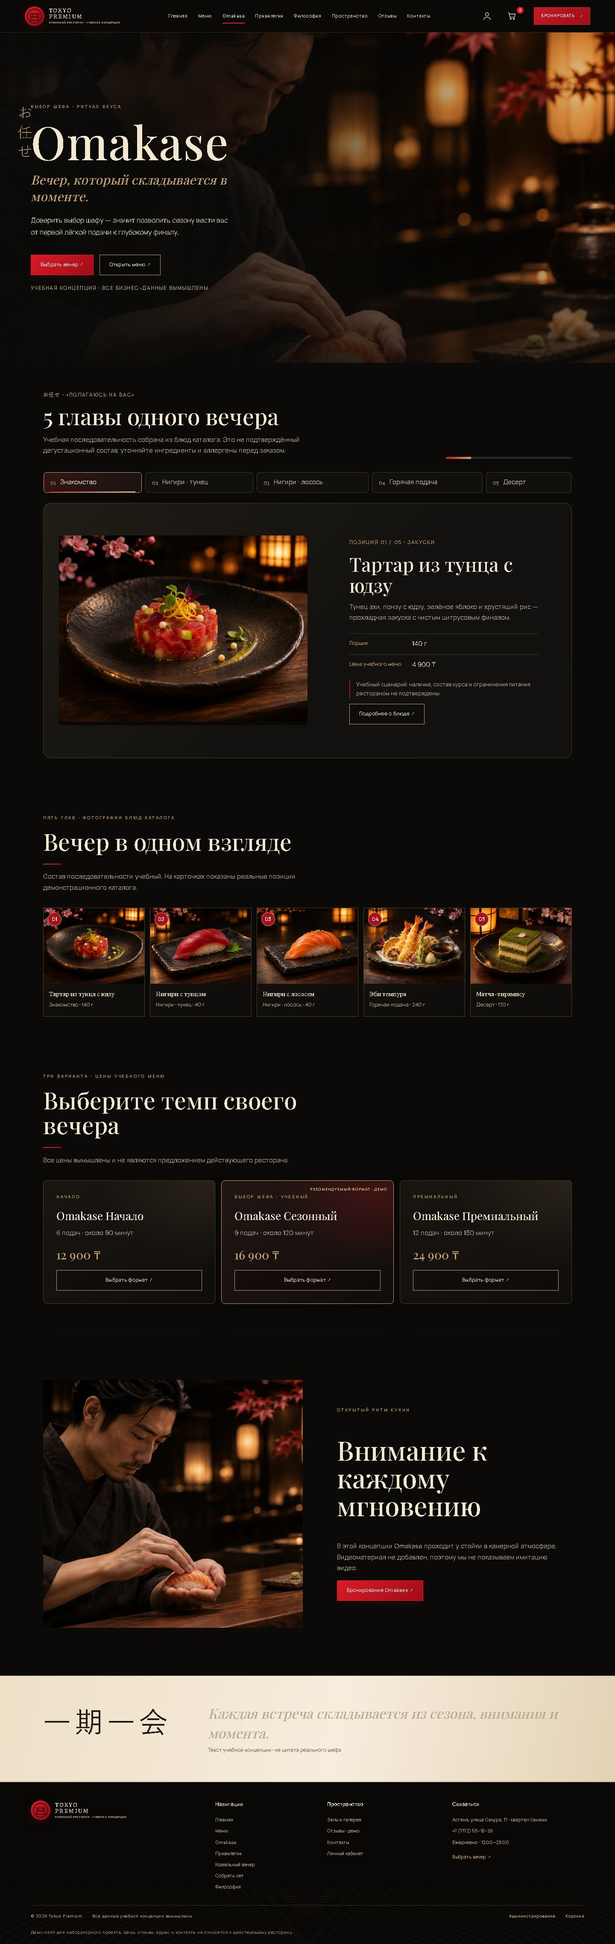
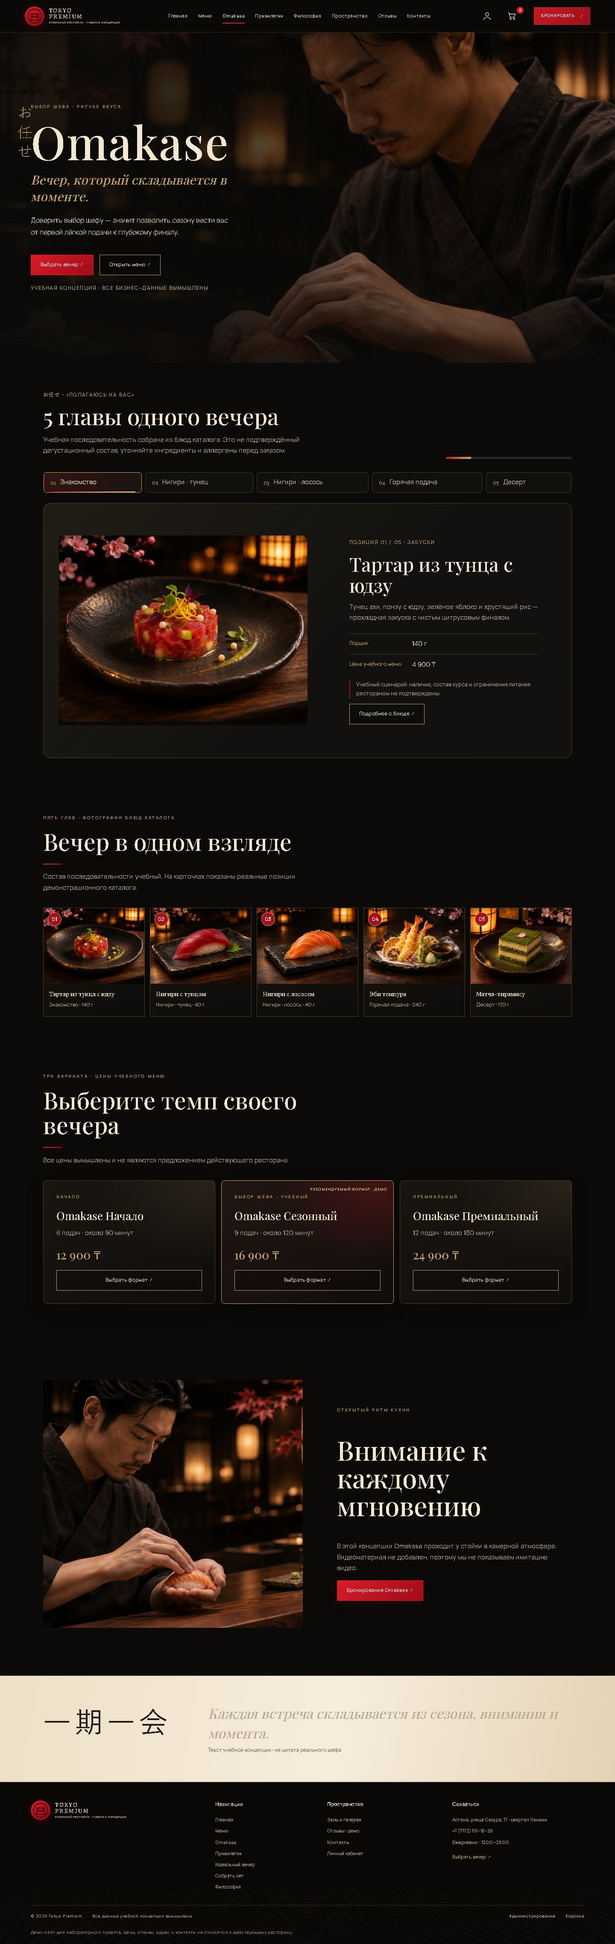
align-omakase-hero-composition

Changed region(s): [[0.3438, 0.0, 1.0, 0.1873]]

diff --git a/docs/omakase.html b/docs/omakase.html
@@ -1,5 +1,5 @@
 <!doctype html><html lang="ru"><head><meta charset="utf-8"><meta name="viewport" content="width=device-width, initial-scale=1"><meta name="description" content="Дегустационный вечер Omakase в учебной концепции Tokyo Premium."><meta name="theme-color" content="#0b0a09"><meta property="og:title" content="Omakase — Tokyo Premium"><meta property="og:description" content="Дегустационный вечер Omakase в учебной концепции Tokyo Premium."><meta property="og:type" content="website"><meta property="og:image" content="assets/generated/home-hero-salmon-nigiri-v3.webp"><meta name="twitter:card" content="summary_large_image"><title>Omakase — Tokyo Premium</title><link rel="preconnect" href="https://fonts.googleapis.com"><link rel="preconnect" href="https://fonts.gstatic.com" crossorigin><link href="https://fonts.googleapis.com/css2?family=DM+Sans:wght@400;500;600&family=Manrope:wght@400;500;600;700&family=Playfair+Display:wght@400;500;600&display=swap" rel="stylesheet"><link rel="stylesheet" href="luxury.css"><link rel="stylesheet" href="editorial.css"><link rel="stylesheet" href="premium.css"><link rel="stylesheet" href="tokyo20.css"><link rel="stylesheet" href="experience-ui.css"></head><body><header class="site-header"><a class="wordmark" href="index.html" aria-label="Tokyo Premium — главная"><span class="brand-emblem" aria-hidden="true"><svg viewBox="0 0 48 48" fill="none"><circle cx="24" cy="24" r="21"/><path d="M10 17h28M13 17v19m22-19v19M10 36h28M18 17v7m12-7v7M15 26h18"/></svg></span><span class="brand-type">TOKYO <i>PREMIUM</i><small>ЯПОНСКИЙ РЕСТОРАН · УЧЕБНАЯ КОНЦЕПЦИЯ</small></span></a><nav class="main-nav" id="site-navigation" aria-label="Основная навигация" aria-hidden="true" inert><a class="" href="index.html">Главная</a><a class="" href="menu.html">Меню</a><a class="active" href="omakase.html">Omakase</a><a class="" href="offers.html">Привилегии</a><a href="about.html">Философия</a><a class="" href="gallery.html">Пространство</a><a href="reviews.html">Отзывы</a><a class="" href="contacts.html">Контакты</a><div class="mobile-nav-utilities" aria-label="Быстрые действия"><a href="booking.html">Бронирование <span aria-hidden="true">↗</span></a><a href="offers.html">Привилегии и акции <span aria-hidden="true">↗</span></a><a href="perfect-evening.html">Идеальный вечер <span aria-hidden="true">↗</span></a><a href="set-builder.html">Собрать сет <span aria-hidden="true">↗</span></a><a href="cart.html">Корзина <span class="mobile-cart-count" aria-hidden="true">0</span></a><a href="account.html">Личный кабинет</a></div></nav><div class="header-actions"><a class="header-icon" href="account.html" aria-label="Личный кабинет"><svg viewBox="0 0 24 24" aria-hidden="true"><circle cx="12" cy="8" r="4"/><path d="M4 21c.7-4 3.3-6 8-6s7.3 2 8 6"/></svg></a><a class="header-icon header-cart-link" href="cart.html" aria-label="Корзина"><svg viewBox="0 0 24 24" aria-hidden="true"><path d="M3 4h2l2.5 11h10.8l2-8H6"/><circle cx="9" cy="19" r="1.5"/><circle cx="17" cy="19" r="1.5"/></svg><span class="header-cart-count" aria-hidden="true">0</span></a></div><a class="header-cta" href="booking.html">Бронировать <span aria-hidden="true">↗</span></a><button class="mobile-menu" type="button" aria-controls="site-navigation" aria-label="Открыть меню" aria-expanded="false">Меню</button></header><main class="editorial-page">
-<section class="editorial-hero"><img class="editorial-hero-photo" src="assets/generated/chef-at-counter.webp" srcset="" sizes="100vw" width="1800" height="1100" fetchpriority="high" alt="Шеф готовит дегустационное меню"><div class="editorial-hero-shade"></div><div class="editorial-kanji" lang="ja">お任せ</div><div class="editorial-hero-copy"><div class="kicker">ВЫБОР ШЕФА · РИТУАЛ ВКУСА</div><h1>Omakase</h1><p class="editorial-sub">Вечер, который складывается в моменте.</p><p>Доверить выбор шефу — значит позволить сезону вести вас от первой лёгкой подачи к глубокому финалу.</p><div class="button-row"><a class="button" href="booking.html">Выбрать вечер ↗</a><a class="button secondary" href="menu.html">Открыть меню ↗</a></div><span class="school-note">Учебная концепция · все бизнес-данные вымышлены</span></div></section>
+<section class="editorial-hero omakase-hero"><img class="editorial-hero-photo" src="assets/generated/chef-at-counter.webp" srcset="" sizes="100vw" width="1800" height="1100" fetchpriority="high" alt="Шеф готовит дегустационное меню"><div class="editorial-hero-shade"></div><div class="editorial-kanji" lang="ja">お任せ</div><div class="editorial-hero-copy"><div class="kicker">ВЫБОР ШЕФА · РИТУАЛ ВКУСА</div><h1>Omakase</h1><p class="editorial-sub">Вечер, который складывается в моменте.</p><p>Доверить выбор шефу — значит позволить сезону вести вас от первой лёгкой подачи к глубокому финалу.</p><div class="button-row"><a class="button" href="booking.html">Выбрать вечер ↗</a><a class="button secondary" href="menu.html">Открыть меню ↗</a></div><span class="school-note">Учебная концепция · все бизнес-данные вымышлены</span></div></section>
 <section class="section tp20-omakase-experience" data-tp-omakase aria-label="Интерактивная история Omakase"><div class="tp20-course-heading"><div><div class="kicker">お任せ · «полагаюсь на вас»</div><h2>5 главы одного вечера</h2><p>Учебная последовательность собрана из блюд каталога. Это не подтверждённый дегустационный состав; уточняйте ингредиенты и аллергены перед заказом.</p></div><div class="tp20-course-progress" data-tp-omakase-progress aria-label="Прогресс знакомства с меню"><span></span></div></div><div class="tp20-course-tabs" role="tablist" aria-label="Позиции учебной последовательности"><button type="button" id="tp-omakase-tab-1" data-tp-course data-step="1" aria-controls="tp-omakase-panel-1" aria-selected="true"><span>01</span>Знакомство</button><button type="button" id="tp-omakase-tab-2" data-tp-course data-step="2" aria-controls="tp-omakase-panel-2" aria-selected="false"><span>02</span>Нигири · тунец</button><button type="button" id="tp-omakase-tab-3" data-tp-course data-step="3" aria-controls="tp-omakase-panel-3" aria-selected="false"><span>03</span>Нигири · лосось</button><button type="button" id="tp-omakase-tab-4" data-tp-course data-step="4" aria-controls="tp-omakase-panel-4" aria-selected="false"><span>04</span>Горячая подача</button><button type="button" id="tp-omakase-tab-5" data-tp-course data-step="5" aria-controls="tp-omakase-panel-5" aria-selected="false"><span>05</span>Десерт</button></div><div class="tp20-course-panels"><article class="tp20-course-panel" id="tp-omakase-panel-1" data-tp-course-panel data-step="1" ><div class="tp20-course-photo"><img src="assets/food/12-tuna-tartare-yuzu.webp" srcset="" alt="Тартар из тунца с юдзу — демонстрационная фотография блюда" loading="eager" decoding="async"></div><div class="tp20-course-story"><span class="kicker">ПОЗИЦИЯ 01 / 05 · Закуски</span><h3>Тартар из тунца с юдзу</h3><p>Тунец ахи, понзу с юдзу, зелёное яблоко и хрустящий рис — прохладная закуска с чистым цитрусовым финалом.</p><dl><div><dt>Порция</dt><dd>140 г</dd></div><div><dt>Цена учебного меню</dt><dd>4 900 ₸</dd></div></dl><p class="tp20-course-note">Учебный сценарий: наличие, состав курса и ограничения питания рестораном не подтверждены.</p><a class="button secondary" href="dish-12.html">Подробнее о блюде ↗</a></div></article><article class="tp20-course-panel" id="tp-omakase-panel-2" data-tp-course-panel data-step="2" hidden><div class="tp20-course-photo"><img src="assets/food/06-nigiri-tuna.webp" srcset="" alt="Нигири с тунцом — демонстрационная фотография блюда" loading="lazy" decoding="async"></div><div class="tp20-course-story"><span class="kicker">ПОЗИЦИЯ 02 / 05 · Суши и сашими</span><h3>Нигири с тунцом</h3><p>Нигири с тунцом.</p><dl><div><dt>Порция</dt><dd>40 г</dd></div><div><dt>Цена учебного меню</dt><dd>1 500 ₸</dd></div></dl><p class="tp20-course-note">Учебный сценарий: наличие, состав курса и ограничения питания рестораном не подтверждены.</p><a class="button secondary" href="dish-6.html">Подробнее о блюде ↗</a></div></article><article class="tp20-course-panel" id="tp-omakase-panel-3" data-tp-course-panel data-step="3" hidden><div class="tp20-course-photo"><img src="assets/food/03-nigiri-salmon.webp" srcset="" alt="Нигири с лососем — демонстрационная фотография блюда" loading="lazy" decoding="async"></div><div class="tp20-course-story"><span class="kicker">ПОЗИЦИЯ 03 / 05 · Суши и сашими</span><h3>Нигири с лососем</h3><p>Классические нигири с лососем.</p><dl><div><dt>Порция</dt><dd>40 г</dd></div><div><dt>Цена учебного меню</dt><dd>1 200 ₸</dd></div></dl><p class="tp20-course-note">Учебный сценарий: наличие, состав курса и ограничения питания рестораном не подтверждены.</p><a class="button secondary" href="dish-3.html">Подробнее о блюде ↗</a></div></article><article class="tp20-course-panel" id="tp-omakase-panel-4" data-tp-course-panel data-step="4" hidden><div class="tp20-course-photo"><img src="assets/food/15-ebi-tempura.webp" srcset="" alt="Эби темпура — демонстрационная фотография блюда" loading="lazy" decoding="async"></div><div class="tp20-course-story"><span class="kicker">ПОЗИЦИЯ 04 / 05 · Горячее</span><h3>Эби темпура</h3><p>Тигровые креветки в лёгком тесте, сезонные овощи и тэнцую с дайконом.</p><dl><div><dt>Порция</dt><dd>240 г</dd></div><div><dt>Цена учебного меню</dt><dd>5 600 ₸</dd></div></dl><p class="tp20-course-note">Учебный сценарий: наличие, состав курса и ограничения питания рестораном не подтверждены.</p><a class="button secondary" href="dish-15.html">Подробнее о блюде ↗</a></div></article><article class="tp20-course-panel" id="tp-omakase-panel-5" data-tp-course-panel data-step="5" hidden><div class="tp20-course-photo"><img src="assets/food/19-matcha-tiramisu.webp" srcset="" alt="Матча-тирамису — демонстрационная фотография блюда" loading="lazy" decoding="async"></div><div class="tp20-course-story"><span class="kicker">ПОЗИЦИЯ 05 / 05 · Десерты</span><h3>Матча-тирамису</h3><p>Крем маскарпоне, савоярди с ходзича и пудра из церемониальной матчи.</p><dl><div><dt>Порция</dt><dd>170 г</dd></div><div><dt>Цена учебного меню</dt><dd>3 600 ₸</dd></div></dl><p class="tp20-course-note">Учебный сценарий: наличие, состав курса и ограничения питания рестораном не подтверждены.</p><a class="button secondary" href="dish-19.html">Подробнее о блюде ↗</a></div></article></div></section>
 <section class="section dark omakase-course-overview" aria-labelledby="omakase-course-overview-title"><div class="editorial-heading"><div class="kicker">Пять глав · фотографии блюд каталога</div><h2 id="omakase-course-overview-title">Вечер в одном взгляде</h2><p>Состав последовательности учебный. На карточках показаны реальные позиции демонстрационного каталога.</p></div><div class="omakase-course-grid"><article class="omakase-course-card"><div class="omakase-course-photo"><img src="assets/food/12-tuna-tartare-yuzu.webp" srcset="" alt="Тартар из тунца с юдзу из учебного каталога" loading="lazy" decoding="async"><span>01</span></div><div><h3>Тартар из тунца с юдзу</h3><p>Знакомство · 140 г</p></div></article><article class="omakase-course-card"><div class="omakase-course-photo"><img src="assets/food/06-nigiri-tuna.webp" srcset="" alt="Нигири с тунцом из учебного каталога" loading="lazy" decoding="async"><span>02</span></div><div><h3>Нигири с тунцом</h3><p>Нигири · тунец · 40 г</p></div></article><article class="omakase-course-card"><div class="omakase-course-photo"><img src="assets/food/03-nigiri-salmon.webp" srcset="" alt="Нигири с лососем из учебного каталога" loading="lazy" decoding="async"><span>03</span></div><div><h3>Нигири с лососем</h3><p>Нигири · лосось · 40 г</p></div></article><article class="omakase-course-card"><div class="omakase-course-photo"><img src="assets/food/15-ebi-tempura.webp" srcset="" alt="Эби темпура из учебного каталога" loading="lazy" decoding="async"><span>04</span></div><div><h3>Эби темпура</h3><p>Горячая подача · 240 г</p></div></article><article class="omakase-course-card"><div class="omakase-course-photo"><img src="assets/food/19-matcha-tiramisu.webp" srcset="" alt="Матча-тирамису из учебного каталога" loading="lazy" decoding="async"><span>05</span></div><div><h3>Матча-тирамису</h3><p>Десерт · 170 г</p></div></article></div></section>
 <section class="section dark"><div class="editorial-heading"><div class="kicker">Три варианта · цены учебного меню</div><h2>Выберите темп своего вечера</h2><p>Все цены вымышлены и не являются предложением действующего ресторана.</p></div><div class="experience-tiers"><article class="tier-card"><span class="kicker">Начало</span><h3>Omakase Начало</h3><p>6 подач · около 90 минут</p><strong>12 900 ₸</strong><a class="button secondary" data-tp-omakase-select data-format="Начало" href="booking.html?format=%D0%9D%D0%B0%D1%87%D0%B0%D0%BB%D0%BE">Выбрать формат ↗</a></article><article class="tier-card tier-card-featured"><span class="kicker">ВЫБОР ШЕФА · УЧЕБНЫЙ</span><h3>Omakase Сезонный</h3><p>9 подач · около 120 минут</p><strong>16 900 ₸</strong><a class="button secondary" data-tp-omakase-select data-format="Сезонный" href="booking.html?format=%D0%A1%D0%B5%D0%B7%D0%BE%D0%BD%D0%BD%D1%8B%D0%B9">Выбрать формат ↗</a></article><article class="tier-card"><span class="kicker">Премиальный</span><h3>Omakase Премиальный</h3><p>12 подач · около 150 минут</p><strong>24 900 ₸</strong><a class="button secondary" data-tp-omakase-select data-format="Премиальный" href="booking.html?format=%D0%9F%D1%80%D0%B5%D0%BC%D0%B8%D0%B0%D0%BB%D1%8C%D0%BD%D1%8B%D0%B9">Выбрать формат ↗</a></article></div></section>

diff --git a/docs/luxury-refinements.css b/docs/luxury-refinements.css
@@ -144,3 +144,6 @@
 @media(max-width:640px){.omakase-course-grid{grid-template-columns:repeat(2,minmax(0,1fr));gap:9px}.omakase-course-card>div:last-child{padding:11px}.omakase-course-card h3{font-size:.86rem}.omakase-course-card p{font-size:.71rem}.omakase-quote{grid-template-columns:1fr;gap:8px;padding-inline:22px}.omakase-quote>span{font-size:2.1rem}.omakase-quote small{grid-column:1}.account-overview{width:calc(100% - 28px);grid-template-columns:1fr}.account-overview-art{min-height:185px}.account-overview-body{padding:23px 19px 25px}.account-metrics{margin:19px 0}.account-metrics article{padding:11px 8px}.account-metrics strong{font-size:1.25rem}.account-metrics span{font-size:.65rem}.account-quick-actions a,.account-quick-actions button{flex:1 1 42%;font-size:.69rem}.account-dashboard .account-demo-nav{grid-template-columns:repeat(2,minmax(0,1fr))}.account-dashboard .account-demo-nav button{padding:12px 10px;font-size:.75rem}.account-promo{width:calc(100% - 28px);grid-template-columns:1fr;min-height:300px;margin:26px auto 48px;padding:22px}.account-promo:before{inset:0;background:linear-gradient(90deg,rgba(10,9,8,.55),#13100e 80%),url('assets/generated/room-garden-terrace.webp') center/cover}.account-promo .button{width:100%}}
 @media(prefers-reduced-motion:reduce){.omakase-course-card,.omakase-course-photo img{transition:none}}
 .cart-page-controls [data-cart-remove]{width:auto;min-width:68px;padding-inline:10px;color:#dc9e93}
+
+/* Mirror the existing chef photograph so the Omakase title keeps clear space. */
+.editorial-hero.omakase-hero .editorial-hero-photo{transform:scaleX(-1)}

diff --git a/luxury-refinements.css b/luxury-refinements.css
@@ -144,3 +144,6 @@
 @media(max-width:640px){.omakase-course-grid{grid-template-columns:repeat(2,minmax(0,1fr));gap:9px}.omakase-course-card>div:last-child{padding:11px}.omakase-course-card h3{font-size:.86rem}.omakase-course-card p{font-size:.71rem}.omakase-quote{grid-template-columns:1fr;gap:8px;padding-inline:22px}.omakase-quote>span{font-size:2.1rem}.omakase-quote small{grid-column:1}.account-overview{width:calc(100% - 28px);grid-template-columns:1fr}.account-overview-art{min-height:185px}.account-overview-body{padding:23px 19px 25px}.account-metrics{margin:19px 0}.account-metrics article{padding:11px 8px}.account-metrics strong{font-size:1.25rem}.account-metrics span{font-size:.65rem}.account-quick-actions a,.account-quick-actions button{flex:1 1 42%;font-size:.69rem}.account-dashboard .account-demo-nav{grid-template-columns:repeat(2,minmax(0,1fr))}.account-dashboard .account-demo-nav button{padding:12px 10px;font-size:.75rem}.account-promo{width:calc(100% - 28px);grid-template-columns:1fr;min-height:300px;margin:26px auto 48px;padding:22px}.account-promo:before{inset:0;background:linear-gradient(90deg,rgba(10,9,8,.55),#13100e 80%),url('assets/generated/room-garden-terrace.webp') center/cover}.account-promo .button{width:100%}}
 @media(prefers-reduced-motion:reduce){.omakase-course-card,.omakase-course-photo img{transition:none}}
 .cart-page-controls [data-cart-remove]{width:auto;min-width:68px;padding-inline:10px;color:#dc9e93}
+
+/* Mirror the existing chef photograph so the Omakase title keeps clear space. */
+.editorial-hero.omakase-hero .editorial-hero-photo{transform:scaleX(-1)}

diff --git a/pages.php b/pages.php
@@ -53,7 +53,7 @@ header_html($view);
 <section class="section"><div class="editorial-heading"><div class="kicker">Состав и подача</div><h2>Что создаёт характер блюда</h2></div><div class="detail-ingredients"><article><span>01</span><h3>Основа</h3><p><?=e($dish['description'])?></p></article><article><span>02</span><h3>Текстура</h3><p>Контраст нежного, упругого и хрустящего раскрывает каждый компонент постепенно.</p></article><article><span>03</span><h3>Ритм</h3><p>Подавайте сразу после приготовления; точная подача здесь важнее спешки.</p></article></div></section>
 <section class="section dark"><div class="section-head"><div><div class="kicker">Продолжить знакомство · <?=e($dish['category_name'])?></div><h2>Другие блюда раздела</h2></div><a class="button secondary" href="menu.php">Все меню ↗</a></div><div class="dish-grid dish-grid-related"><?php foreach($recommend as $d) ep_card($d); ?></div></section>
 <?php } elseif($view==='omakase'): ?>
-<?php ep_hero('お任せ','ВЫБОР ШЕФА · РИТУАЛ ВКУСА','Omakase','Вечер, который складывается в моменте.','Доверить выбор шефу — значит позволить сезону вести вас от первой лёгкой подачи к глубокому финалу.','assets/generated/chef-at-counter.webp','Шеф готовит дегустационное меню','Выбрать вечер','pages.php?page=booking','Открыть меню'); ?>
+<?php ep_hero('お任せ','ВЫБОР ШЕФА · РИТУАЛ ВКУСА','Omakase','Вечер, который складывается в моменте.','Доверить выбор шефу — значит позволить сезону вести вас от первой лёгкой подачи к глубокому финалу.','assets/generated/chef-at-counter.webp','Шеф готовит дегустационное меню','Выбрать вечер','pages.php?page=booking','Открыть меню','omakase-hero'); ?>
 <?php
 $omakasePlan=[
  ['Знакомство',12],

diff --git a/project-docs/final-modernization-report.md b/project-docs/final-modernization-report.md
@@ -133,3 +133,7 @@ The focused PHP/static desktop/mobile browser check passed and four screenshots 
 ## Omakase stage navigation — 2026-11-16
 
 On mobile, the horizontal course selector exposed only part of the third stage and left the remaining stages discoverable only by swiping. The selector now becomes a two-column grid at narrow widths. A focused assertion in the existing visual-fidelity route check verifies all five tabs fit and no horizontal scrolling is required. The route passed in PHP and static mode at desktop and 390 px mobile; updated screenshots are saved under project-docs/visual-qa/. Broader checks and publication were not repeated.
+
+## Omakase hero composition — 2026-11-16
+
+The existing generated chef photograph now faces into the Omakase page: a route-specific class mirrors it in the hero, moving the chef to the right while preserving clear text space on the left. The lower editorial preparation photograph is unchanged. The prior mobile-stage grid remains in place. One filtered Playwright run passed in PHP and static modes at desktop and 390 px; screenshots were reviewed. The five-stage navigation and loaded course images remain intact. The overall route still differs from the reference in section order and density, so full visual acceptance remains open.

diff --git a/project-docs/visual-qa/README.md b/project-docs/visual-qa/README.md
@@ -91,3 +91,7 @@ Compared with design-references/03-dish.png, the product title now sits with the
 ## 2026-11-16 Omakase mobile-stage pass
 
 The mobile capture showed that the five-stage selector clipped the third stage and depended on an ambiguous horizontal swipe. It now wraps into a two-column grid on narrow screens, with all five choices visible before the course panel. Updated captures: omakase-php-desktop.jpg, omakase-php-mobile.jpg, omakase-static-desktop.jpg and omakase-static-mobile.jpg. The focused comparison retains the existing image-led premium direction; it is not a pixel-perfect reproduction of 04-omakase.png.
+
+## 2026-11-16 Omakase hero composition pass
+
+The existing original chef photograph is now mirrored only in the Omakase hero, placing the chef on the right and leaving calm copy space on the left, closer to design-references/04-omakase.png. The later editorial chef photograph remains unmirrored. The five mobile stage tabs also remain fully visible in a two-column layout. Current PHP and static captures: omakase-php-desktop.jpg, omakase-php-mobile.jpg, omakase-static-desktop.jpg and omakase-static-mobile.jpg. The wider page section order and layout still differ from the reference; this is a focused comparison, not a pixel-perfect match.

diff --git a/project-docs/testing-report.md b/project-docs/testing-report.md
@@ -175,3 +175,7 @@ This accelerated pass did not rerun the broad browser, responsive or PHP/SQLite 
 ## 2026-11-16 Omakase mobile selector
 
 A single focused visual-fidelity run checked the Omakase route in PHP and static mode at desktop and 390 px mobile. It passed with all five stage tabs inside the selector bounds, no tab-strip horizontal scrolling, no page overflow, and the existing five-course/image checks intact. The four full-page screenshots were reviewed. No broad suite, CI, or Pages deployment was run.
+
+## 2026-11-16 Omakase hero follow-up
+
+One focused visual-fidelity run passed for the Omakase route in PHP and exported static mode at desktop and 390 px mobile. It verifies the hero uses its Omakase-only mirrored composition, preserves the five course photos, exposes all five mobile stage tabs without horizontal scrolling, and has no page overflow or browser errors. Four updated full-page captures were visually inspected. No full suite, CI run, or Pages deployment was performed.
